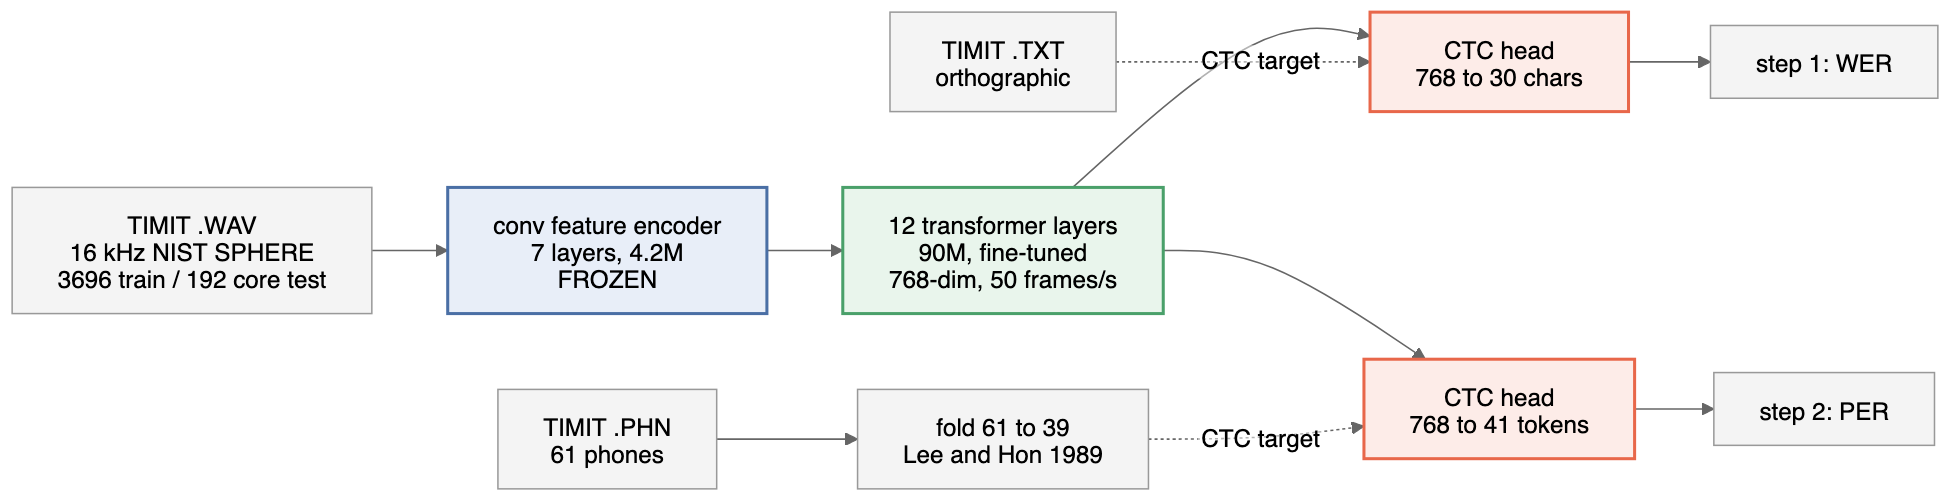
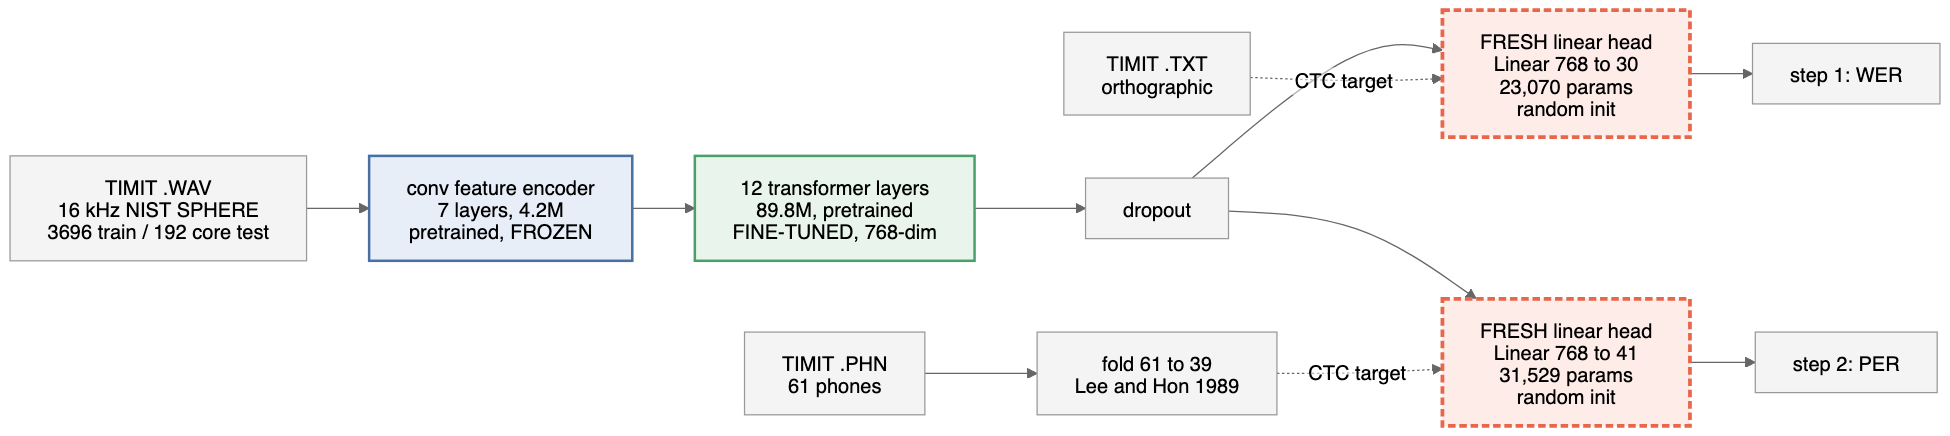
wav2vec2_fine_tune: show the fresh linear head in the diagram
The head was drawn as just another box, which hid the part that matters:
it is not pretrained. facebook/wav2vec2-base has no output vocabulary at
all, so loading it reports lm_head.weight MISSING and transformers
initializes nn.Linear(768, vocab_size) from N(0, 0.02).

The two heads now carry a dashed border to separate "fresh, random init"
from the solid pretrained trunk, with exact counts -- 23,070 params for
the 30-character head, 31,529 for the 41-phone one, against 89.8M
fine-tuned and 4.2M frozen. Dropout is shown too, since it sits between
the transformer and the head in the forward path.

README gains a three-row table of the parameter states and notes that
the random head is why WER sits at 1.00 for the first epochs.

diff --git a/wav2vec2_fine_tune/README.md b/wav2vec2_fine_tune/README.md
@@ -18,14 +18,27 @@ python src/finetune.py --task phoneme  --epochs 30    # step 2
 
 ## One trunk, two heads
 
-![wav2vec2 TIMIT fine-tuning: TIMIT .WAV audio feeds a frozen 7-layer convolutional feature encoder then 12 fine-tuned transformer layers; that shared trunk splits into two CTC heads, one projecting 768 to 30 character tokens scored by WER, the other 768 to 41 phone tokens scored by PER. The .TXT orthographic transcripts supervise the first head; the .PHN phonetic transcripts, folded from 61 to 39 phones, supervise the second.](diagrams/wav2vec2-timit-two-heads.png)
+![wav2vec2 TIMIT fine-tuning: TIMIT .WAV audio feeds a frozen 7-layer convolutional feature encoder, then 12 fine-tuned transformer layers, then dropout. That shared trunk splits into two freshly initialized linear heads, drawn with dashed borders: one projecting 768 to 30 character tokens with 23,070 parameters, scored by WER; the other 768 to 41 phone tokens with 31,529 parameters, scored by PER. The .TXT orthographic transcripts supervise the first head; the .PHN phonetic transcripts, folded from 61 to 39 phones, supervise the second.](diagrams/wav2vec2-timit-two-heads.png)
 
-The same pretrained checkpoint and the same 3696 training utterances feed both tasks. The
-convolutional feature encoder stays **frozen** (the blog's `freeze_feature_encoder()`), so
-only the 90M-parameter transformer and a small CTC head are trained. What changes between
-the two steps is a single projection — **768 → 30** character tokens versus **768 → 41**
-phone tokens — plus where the supervision comes from: `.TXT` for step 1, `.PHN` folded
-61 → 39 for step 2.
+Three kinds of parameter, and the borders distinguish them:
+
+| | params | state |
+|---|---|---|
+| conv feature encoder | 4.2M | pretrained, **frozen** by `freeze_feature_encoder()` |
+| 12 transformer layers | 89.8M | pretrained, **fine-tuned** |
+| linear head (dashed) | 23K / 31.5K | **fresh** — random init, no pretrained weights exist |
+
+**The head does not come from the checkpoint.** `facebook/wav2vec2-base` was pretrained
+with no output vocabulary at all, so loading it prints `lm_head.weight | MISSING` and
+transformers creates `nn.Linear(768, vocab_size)` from scratch — sampled from
+`N(0, 0.02)`, matching `config.initializer_range`. That is the *only* structural
+difference between the two steps: **768 → 30** characters versus **768 → 41** phones.
+
+It also explains the long WER = 1.00 plateau early in training. The head starts as noise
+over the vocabulary, so the model emits blanks until those 23K new parameters learn the
+inventory *while* the 90.2M below them reshape to make it linearly separable. Warmup
+exists to stop a high early learning rate from wrecking the pretrained trunk to satisfy a
+random head.
 
 Sources: [`diagrams/`](diagrams/) holds the mermaid `.mmd`, an editable `.excalidraw`
 scene, and rendered `.svg` / `.png`.
